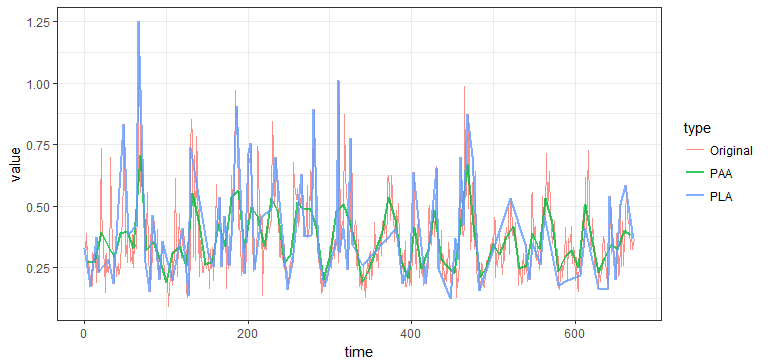
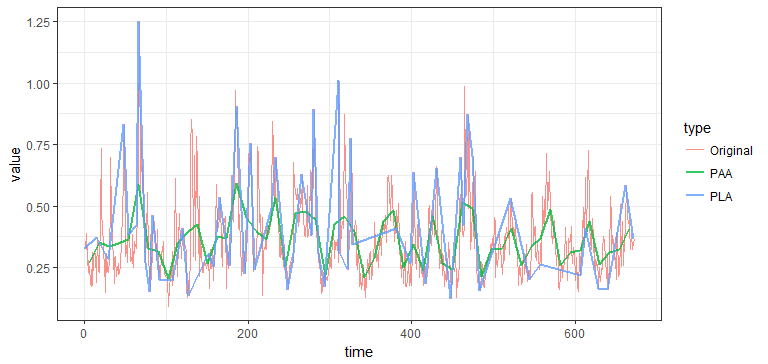
Update: readme paa pla

diff --git a/README.md b/README.md
@@ -58,12 +58,12 @@ library(ggplot2)
 data_ts <- as.numeric(elec_load[5,]) # electricity load consumption data
 # Comparison of PAA and PLA
 # Dimensionality of the time series will be reduced 8 times
-data_paa <- repr_paa(data_ts, q = 8, func = mean)
-data_pla <- repr_pla(data_ts, times = 83, return = "both") # returns both extracted places and values
+data_paa <- repr_paa(data_ts, q = 12, func = mean)
+data_pla <- repr_pla(data_ts, times = 55, return = "both") # returns both extracted places and values
 
 data_plot <- data.frame(value = c(data_ts, data_paa, data_pla$points),
-                        time = c(1:length(data_ts), seq(4, length(data_ts), by = 8), data_pla$places),
-                        type = factor(c(rep("Original", length(data_ts)), rep(c("PAA", "PLA"), each = 84))))
+                        time = c(1:length(data_ts), seq(6, length(data_ts), by = 12), data_pla$places),
+                        type = factor(c(rep("Original", length(data_ts)), rep(c("PAA", "PLA"), each = 56))))
 
 ggplot(data_plot, aes(time, value, color = type, size = type)) +
   geom_line(alpha = 0.8) +
